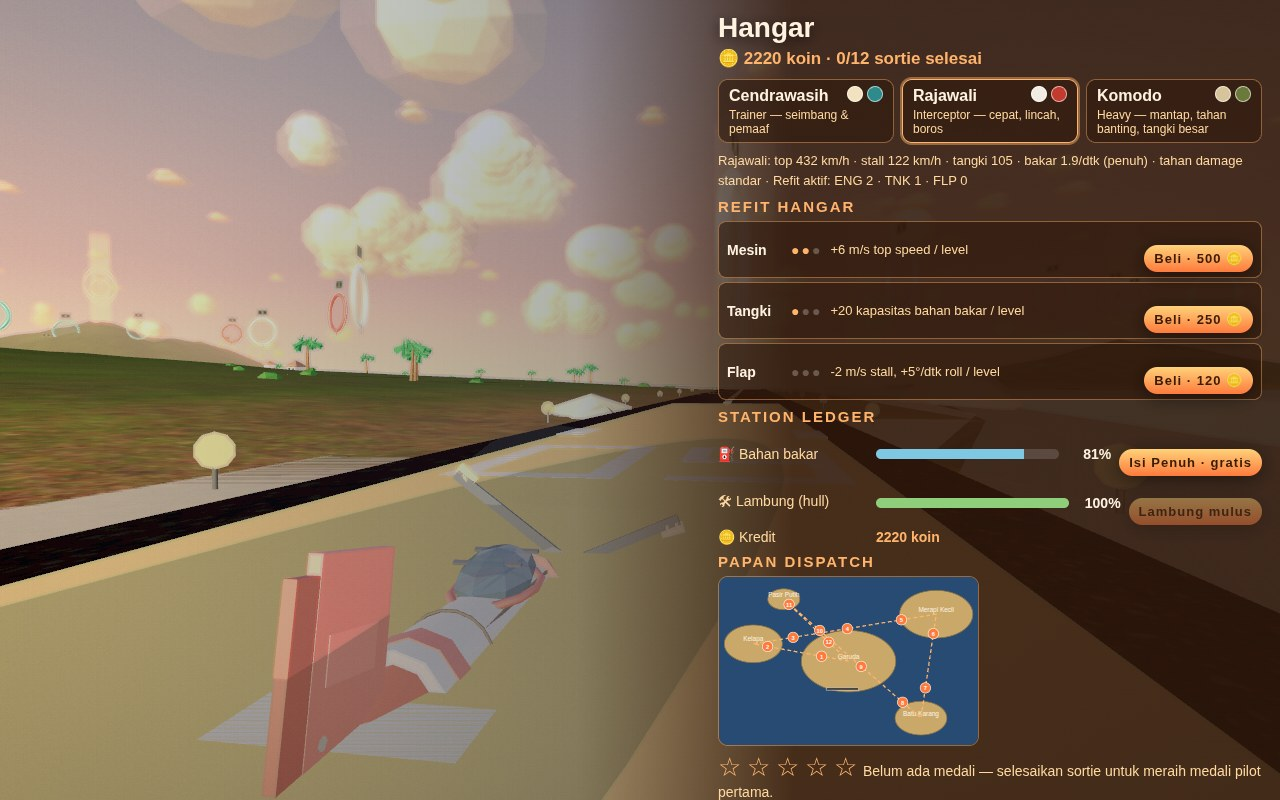
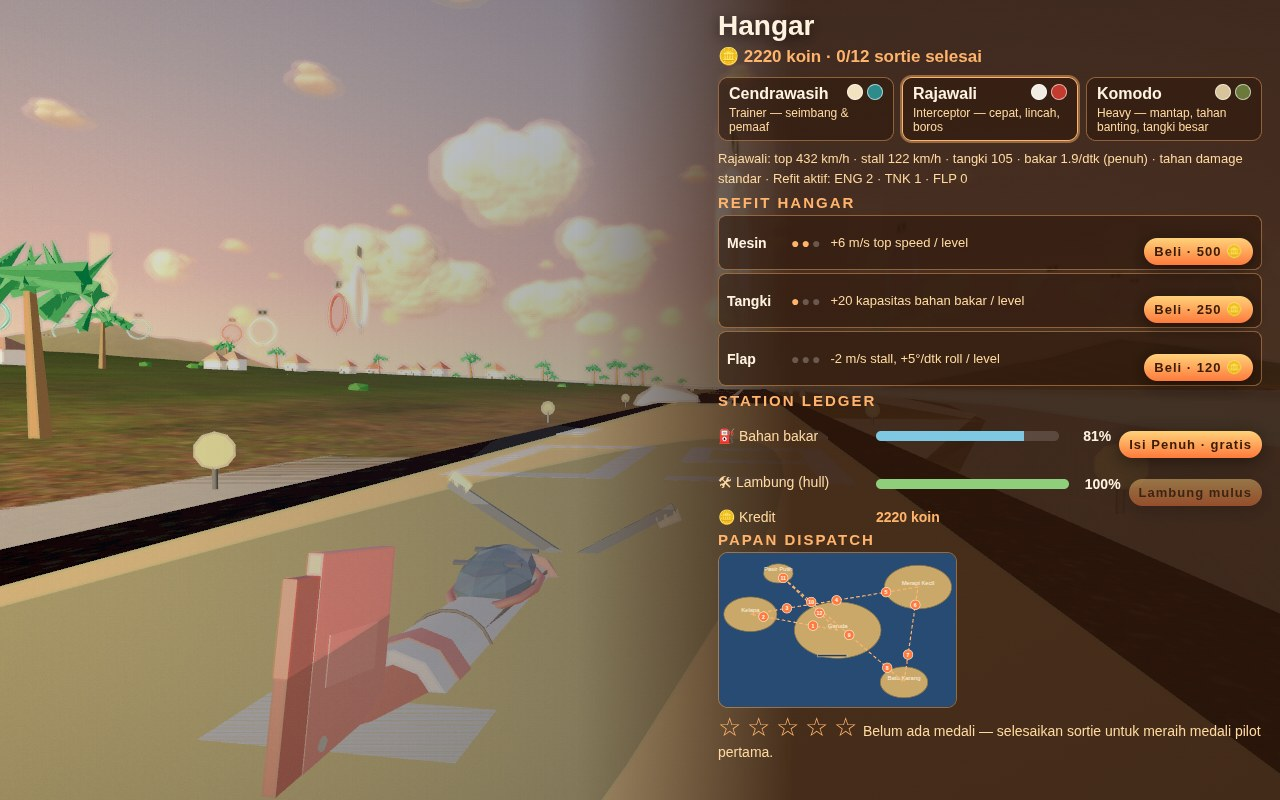
R2-11b2: trim hangar shot panel to fit 800px frame — map 44%, tighter h3/refit/ledger spacing, medals note fully visible

diff --git a/game/src/hangar.js b/game/src/hangar.js
@@ -264,7 +264,7 @@ export function createHangar(opts) {
       refresh();
       const panel = root.querySelector('.hangar-panel');
       if (panel) {
-        panel.style.padding = '12px 18px';
+        panel.style.padding = '10px 18px';
         panel.scrollTop = 0;
       }
       const h2 = root.querySelector('.hangar-panel h2');
@@ -291,22 +291,22 @@ export function createHangar(opts) {
       }
       if (statsEl) statsEl.style.fontSize = '13px';
       for (const h of root.querySelectorAll('.hangar-panel h3')) {
-        h.style.margin = '8px 0 6px';
+        h.style.margin = '6px 0 4px';
         h.style.fontSize = '15px';
       }
       for (const row of root.querySelectorAll('.refit-row')) {
-        row.style.padding = '5px 8px';
-        row.style.margin = '4px 0';
+        row.style.padding = '4px 8px';
+        row.style.margin = '3px 0';
       }
       for (const note of root.querySelectorAll('.refit-note')) {
         note.style.display = 'none';
       }
       for (const row of root.querySelectorAll('.ledger-row')) {
-        row.style.margin = '4px 0';
+        row.style.margin = '3px 0';
       }
       const map = root.querySelector('.dispatch-map');
-      if (map) { map.style.width = '48%'; }
-      if (medalsEl) medalsEl.style.marginTop = '6px';
+      if (map) { map.style.width = '44%'; }
+      if (medalsEl) medalsEl.style.marginTop = '4px';
       const closeBtn = doc.getElementById('btn-hangar-close');
       if (closeBtn) closeBtn.style.display = 'none';
     },
